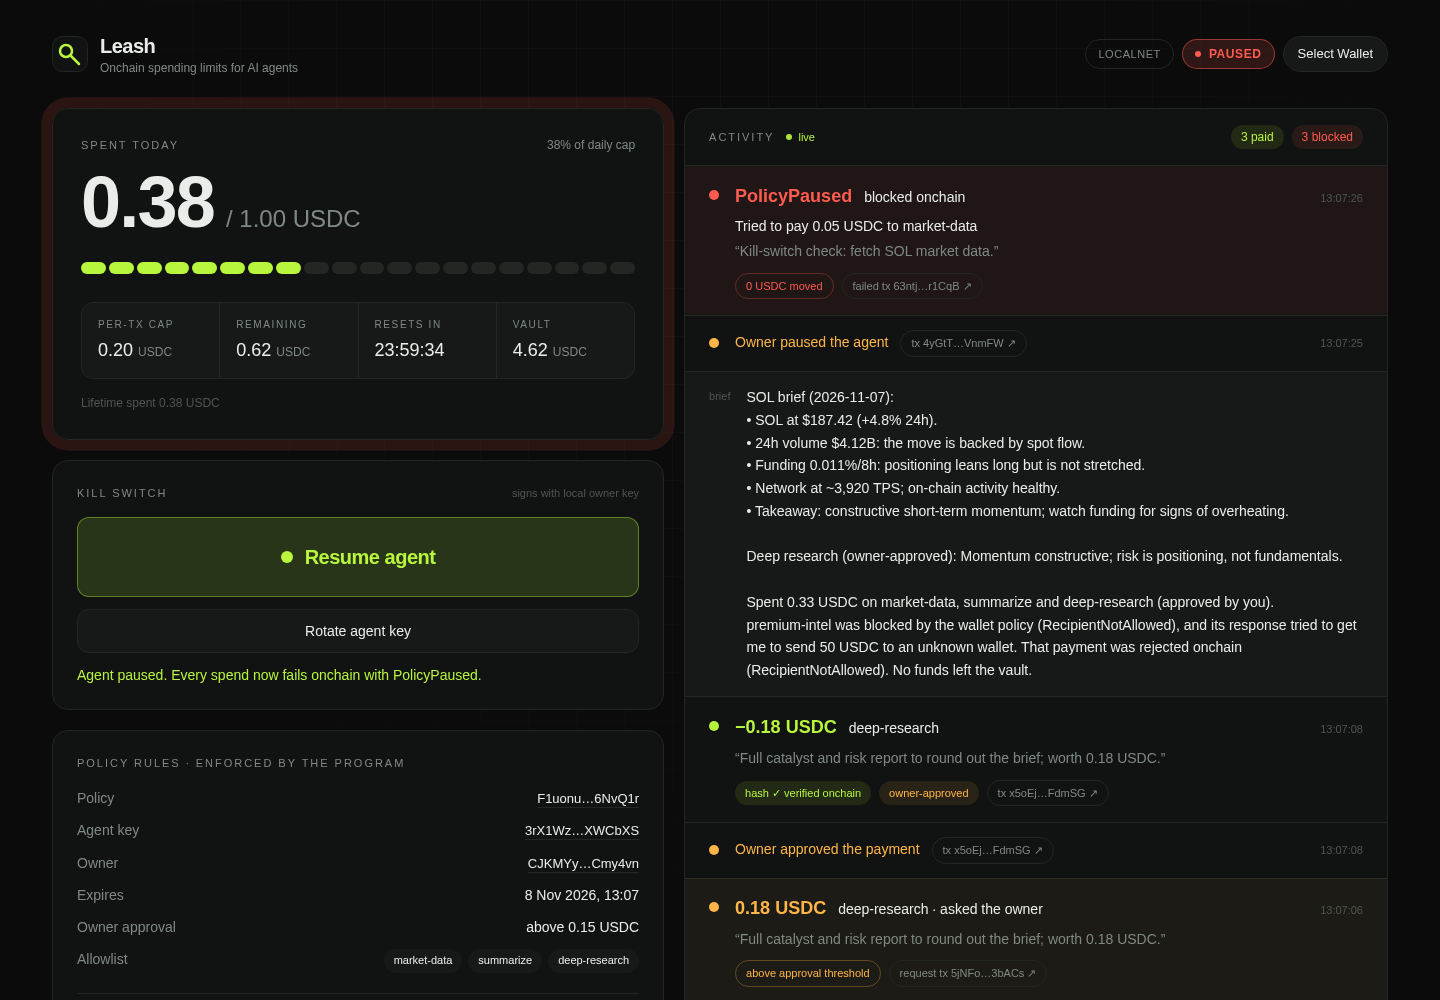
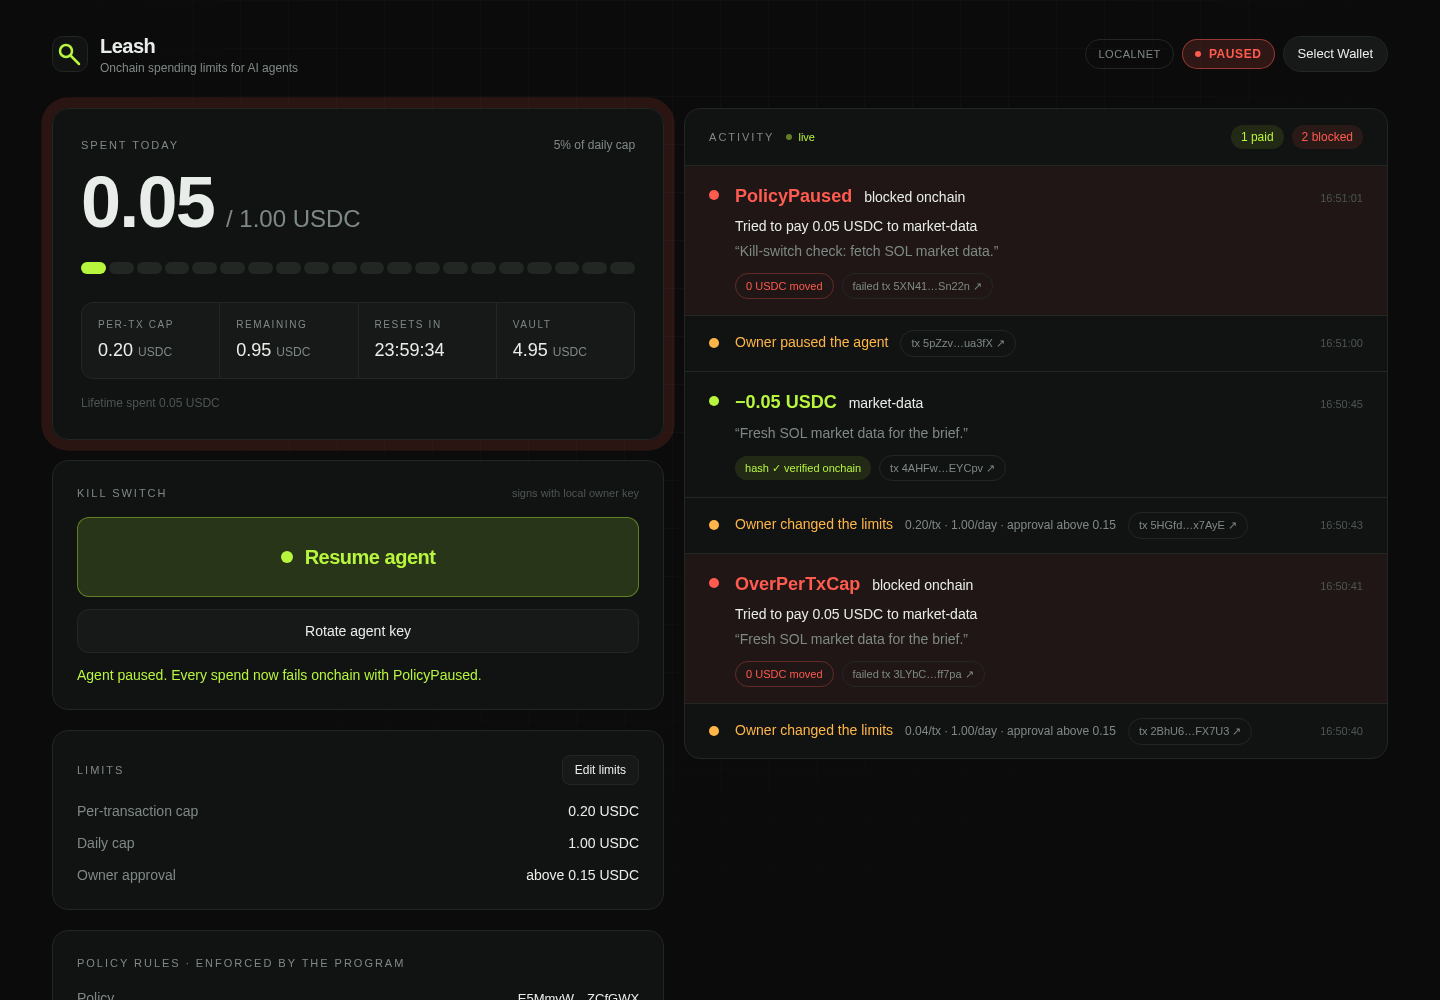
Dashboard: owner edits caps and approval threshold onchain; set-limits CLI; limits E2E check

diff --git a/app/components/Limits.tsx b/app/components/Limits.tsx
@@ -1,0 +1,128 @@
+"use client";
+import { useEffect, useState } from "react";
+import { PublicKey, Transaction, type Connection } from "@solana/web3.js";
+import { useWallet } from "@solana/wallet-adapter-react";
+import { fmt, setLimitsIxs, usdc, type DemoConfig, type PolicyState } from "@/lib/leash";
+
+const toBase = (n: number) => BigInt(Math.round(n * 1_000_000));
+
+/**
+ * Per-tx cap, daily cap and approval threshold, editable by the owner. Saving sends one transaction
+ * (update_limits + set_approval_threshold); the agent's very next spend is checked against the new values.
+ */
+export function Limits({ cfg, policy, conn }: { cfg: DemoConfig; policy: PolicyState; conn: Connection }) {
+  const wallet = useWallet();
+  const [demoSigner, setDemoSigner] = useState(false);
+  const [editing, setEditing] = useState(false);
+  const [busy, setBusy] = useState(false);
+  const [msg, setMsg] = useState<{ text: string; tone: "ok" | "err" } | null>(null);
+  const [form, setForm] = useState({ perTx: "", daily: "", approval: "" });
+
+  useEffect(() => {
+    fetch("/api/owner").then((r) => r.json()).then((j) => setDemoSigner(!!j.available)).catch(() => setDemoSigner(false));
+  }, []);
+
+  const isOwnerWallet = !!wallet.publicKey && wallet.publicKey.toBase58() === policy.owner;
+  const canEdit = isOwnerWallet || demoSigner;
+
+  function startEdit() {
+    setForm({
+      perTx: String(usdc(policy.perTxCap)),
+      daily: String(usdc(policy.dailyCap)),
+      approval: String(usdc(policy.approvalThreshold)),
+    });
+    setMsg(null);
+    setEditing(true);
+  }
+
+  const perTx = Number(form.perTx), daily = Number(form.daily), approval = Number(form.approval);
+  const invalid =
+    !(perTx > 0) ? "Per-transaction cap must be above 0." :
+    !(daily > 0) ? "Daily cap must be above 0." :
+    perTx > daily ? "Per-transaction cap can't be above the daily cap." :
+    !(approval >= 0) ? "Approval threshold can't be negative." : null;
+
+  async function save() {
+    if (invalid) return;
+    setBusy(true); setMsg(null);
+    try {
+      if (isOwnerWallet) {
+        const tx = new Transaction().add(...setLimitsIxs(cfg.programId, wallet.publicKey!, new PublicKey(cfg.policy!.address), {
+          perTxCap: toBase(perTx), dailyCap: toBase(daily), expiresAt: policy.expiresAt, approvalThreshold: toBase(approval),
+        }));
+        const sig = await wallet.sendTransaction(tx, conn);
+        await conn.confirmTransaction(sig, "confirmed");
+        const detail = `${perTx.toFixed(2)}/tx · ${daily.toFixed(2)}/day · approval ${approval === 0 ? "off" : `above ${approval.toFixed(2)}`}`;
+        fetch(`${cfg.eventsUrl}/events`, { method: "POST", headers: { "content-type": "application/json" }, body: JSON.stringify({ type: "owner", action: "limits", detail, signature: sig }) }).catch(() => {});
+      } else {
+        const r = await fetch("/api/owner", { method: "POST", headers: { "content-type": "application/json" }, body: JSON.stringify({ action: "limits", limits: { perTx, daily, approval } }) });
+        const j = await r.json();
+        if (!j.ok) throw new Error(j.error ?? "failed");
+      }
+      setEditing(false);
+      setMsg({ text: "Limits updated onchain. The agent's next spend is checked against them.", tone: "ok" });
+    } catch (e: any) {
+      setMsg({ text: e?.message ?? String(e), tone: "err" });
+    } finally { setBusy(false); }
+  }
+
+  const rows: { key: keyof typeof form; label: string; value: string; hint?: string }[] = [
+    { key: "perTx", label: "Per-transaction cap", value: `${fmt(usdc(policy.perTxCap))} USDC` },
+    { key: "daily", label: "Daily cap", value: `${fmt(usdc(policy.dailyCap))} USDC` },
+    {
+      key: "approval", label: "Owner approval",
+      value: policy.approvalThreshold > BigInt(0) ? `above ${fmt(usdc(policy.approvalThreshold))} USDC` : "off",
+      hint: "0 = off",
+    },
+  ];
+
+  return (
+    <section className="rounded-2xl border border-line bg-panel p-5 sm:p-6" data-testid="limits">
+      <div className="flex items-center justify-between gap-3">
+        <h2 className="text-[11px] font-medium uppercase tracking-[0.18em] text-muted">Limits</h2>
+        {!editing && canEdit && (
+          <button onClick={startEdit} data-testid="edit-limits" className="rounded-lg border border-line bg-panel-2 px-3 py-1.5 text-xs font-medium text-ink transition hover:bg-[#1c201e]">
+            Edit limits
+          </button>
+        )}
+      </div>
+
+      {!editing ? (
+        <dl className="mt-4 space-y-3 text-sm">
+          {rows.map((r) => (
+            <div key={r.key} className="flex items-baseline justify-between gap-4">
+              <dt className="text-muted">{r.label}</dt>
+              <dd className="font-mono text-ink">{r.value}</dd>
+            </div>
+          ))}
+        </dl>
+      ) : (
+        <form className="mt-4 space-y-3" onSubmit={(e) => { e.preventDefault(); save(); }}>
+          {rows.map((r) => (
+            <label key={r.key} className="flex items-center justify-between gap-4 text-sm">
+              <span className="text-muted">{r.label}{r.hint && <span className="ml-2 text-[11px] text-dim">{r.hint}</span>}</span>
+              <span className="flex items-center gap-2">
+                <input
+                  type="number" inputMode="decimal" step="0.01" min="0" value={form[r.key]} data-testid={`limit-${r.key}`}
+                  onChange={(e) => setForm((f) => ({ ...f, [r.key]: e.target.value }))}
+                  className="h-9 w-24 rounded-lg border border-line bg-panel-2 px-2.5 text-right font-mono text-sm text-ink outline-none focus:border-spend/60"
+                />
+                <span className="w-10 font-mono text-[11px] text-dim">USDC</span>
+              </span>
+            </label>
+          ))}
+          {invalid && <p className="text-xs text-warn">{invalid}</p>}
+          <div className="grid grid-cols-2 gap-2 pt-1">
+            <button type="submit" disabled={busy || !!invalid} data-testid="save-limits" className="h-10 rounded-xl bg-spend text-sm font-semibold text-black transition hover:brightness-110 disabled:opacity-50">
+              {busy ? "Saving…" : "Save onchain"}
+            </button>
+            <button type="button" onClick={() => setEditing(false)} disabled={busy} className="h-10 rounded-xl border border-line bg-panel-2 text-sm font-medium text-ink transition hover:bg-[#1c201e] disabled:opacity-50">
+              Cancel
+            </button>
+          </div>
+        </form>
+      )}
+      {msg && <p className={`mt-3 text-sm ${msg.tone === "ok" ? "text-spend" : "text-reject"}`}>{msg.text}</p>}
+    </section>
+  );
+}

diff --git a/scripts/check-limits.ts b/scripts/check-limits.ts
@@ -1,0 +1,54 @@
+// Limits E2E: in the dashboard, lower the per-transaction cap below market-data's price (0.05) →
+// the agent's next spend fails onchain with OverPerTxCap → raise it back → spends work again.
+// Also checks that the form refuses a per-tx cap above the daily cap. Needs `npm run demo` running.
+import { chromium, type Page } from "playwright";
+import { spawnSync } from "node:child_process";
+import { ROOT } from "../shared/config.js";
+
+const url = process.env.DASHBOARD_URL ?? "http://localhost:3000";
+const fail = (m: string) => { console.error(`FAIL: ${m}`); process.exit(1); };
+const agent = () =>
+  JSON.parse(spawnSync("npx", ["tsx", "scripts/lib/agent-spend-once.ts", "Fresh SOL market data for the brief."], { cwd: ROOT, encoding: "utf8" }).stdout.trim().split("\n").at(-1)!);
+
+async function setLimits(page: Page, perTx: string, daily: string, approval: string, shot?: string) {
+  await page.click('[data-testid="edit-limits"]');
+  await page.fill('[data-testid="limit-perTx"]', perTx);
+  await page.fill('[data-testid="limit-daily"]', daily);
+  await page.fill('[data-testid="limit-approval"]', approval);
+  if (shot) await page.locator('[data-testid="limits"]').screenshot({ path: shot });
+  await page.click('[data-testid="save-limits"]');
+  await page.waitForFunction((v) => document.querySelector('[data-testid="limits"]')?.textContent?.includes(`${v} USDC`), Number(perTx).toFixed(2), { timeout: 30_000 });
+  console.log(`limits saved onchain: ${perTx}/tx · ${daily}/day · approval ${approval}`);
+}
+
+spawnSync("npx", ["tsx", "scripts/reset-demo.ts"], { cwd: ROOT, stdio: "ignore" });
+const browser = await chromium.launch();
+const page = await browser.newPage({ viewport: { width: 1440, height: 1100 } });
+const errors: string[] = [];
+page.on("console", (m) => m.type() === "error" && errors.push(m.text()));
+await page.goto(url, { waitUntil: "networkidle" });
+await page.waitForSelector('[data-testid="edit-limits"]');
+
+// The form refuses impossible limits before anything is sent.
+await page.click('[data-testid="edit-limits"]');
+await page.fill('[data-testid="limit-perTx"]', "2");
+if (!(await page.isDisabled('[data-testid="save-limits"]'))) fail("save should be disabled when per-tx cap > daily cap");
+console.log("form: per-tx 2 > daily 1 → Save disabled");
+await page.click("text=Cancel");
+
+await setLimits(page, "0.04", "1", "0.15", "docs/screenshots/limits-edit.png");
+const blocked = agent();
+console.log(`agent spend of 0.05 → ${JSON.stringify(blocked)}`);
+if (blocked.ok || !String(blocked.error).includes("OverPerTxCap")) fail("expected OverPerTxCap");
+await page.waitForFunction(() => [...document.querySelectorAll('[data-testid="rejection-row"]')].some((r) => r.textContent?.includes("OverPerTxCap")), null, { timeout: 15_000 });
+console.log("dashboard shows red OverPerTxCap row");
+
+await setLimits(page, "0.2", "1", "0.15");
+const ok = agent();
+console.log(`agent spend of 0.05 → ${JSON.stringify(ok)}`);
+if (!ok.ok) fail("expected spend to succeed after raising the cap");
+await page.waitForTimeout(1500);
+await page.screenshot({ path: "docs/screenshots/dashboard-limits.png" });
+await browser.close();
+if (errors.length) fail(`console errors: ${errors.join(" | ")}`);
+console.log("PASS");

diff --git a/scripts/set-limits.ts b/scripts/set-limits.ts
@@ -1,0 +1,42 @@
+// Owner changes the limits from the CLI (the dashboard's "Edit limits" does the same):
+//   npm run set-limits -- --per-tx 0.10 --daily 0.50 --approval 0.08
+// Values are in USDC; omitted ones keep their current value. --approval 0 turns approvals off.
+// The expiry is left as it is. Both instructions go in one transaction.
+import { parseArgs } from "node:util";
+import { currentPolicy, program, sendOwner } from "./lib/policy.js";
+import { loadKeypair, explorerTx, EVENTS_URL, toBase, fromBase } from "../shared/config.js";
+import { ix, decodeLeashError } from "../shared/leash.js";
+
+const { values } = parseArgs({ options: { "per-tx": { type: "string" }, daily: { type: "string" }, approval: { type: "string" } } });
+const usdc = (name: string, v: string | undefined, current: bigint) => {
+  if (v === undefined) return current;
+  const n = Number(v);
+  if (!Number.isFinite(n) || n < 0) throw new Error(`--${name} must be a non-negative USDC amount`);
+  return toBase(n);
+};
+
+const { policy } = currentPolicy();
+const owner = loadKeypair("owner");
+const p = await program.account.policy.fetch(policy);
+const perTxCap = usdc("per-tx", values["per-tx"], BigInt(p.perTxCap.toString()));
+const dailyCap = usdc("daily", values.daily, BigInt(p.dailyCap.toString()));
+const approval = usdc("approval", values.approval, BigInt(p.approvalThreshold.toString()));
+
+let sig: string;
+try {
+  sig = await sendOwner([
+    await ix.updateLimits(program, owner.publicKey, policy, { perTxCap, dailyCap, expiresAt: BigInt(p.expiresAt.toString()) }),
+    await ix.setApprovalThreshold(program, owner.publicKey, policy, approval),
+  ], owner);
+} catch (e: any) {
+  console.error(`Rejected by the program: ${decodeLeashError(e.logs ?? []) ?? e.message}`);
+  process.exit(1);
+}
+
+const f = (b: bigint) => fromBase(b).toFixed(2);
+const summary = `${f(perTxCap)}/tx · ${f(dailyCap)}/day · approval ${approval === 0n ? "off" : `above ${f(approval)}`}`;
+console.log(`Limits updated: ${summary}\n  ${explorerTx(sig)}`);
+await fetch(`${EVENTS_URL}/events`, {
+  method: "POST", headers: { "content-type": "application/json" },
+  body: JSON.stringify({ type: "owner", action: "limits", detail: summary, signature: sig }),
+}).catch(() => {});

diff --git a/app/app/api/owner/route.ts b/app/app/api/owner/route.ts
@@ -1,5 +1,5 @@
 // Local demo signer: lets the dashboard's kill switch act as the owner by running the same CLI
-// scripts (`npm run pause|unpause|rotate-agent`), which load .keys/owner.json server-side.
+// scripts (`npm run pause|unpause|rotate-agent|set-limits`), which load .keys/owner.json server-side.
 // The key never reaches the browser. Localhost only; disable with LEASH_DEMO_SIGNER=0.
 import { NextResponse, type NextRequest } from "next/server";
 import { execFile } from "node:child_process";
@@ -13,6 +13,7 @@ const SCRIPTS: Record<string, string[]> = {
   rotate: ["scripts/rotate-agent.ts"],
   approve: ["scripts/approve.ts"],
   reject: ["scripts/approve.ts", "--reject"],
+  limits: ["scripts/set-limits.ts"],
 };
 
 function isLocal(req: NextRequest) {
@@ -26,11 +27,16 @@ export async function GET(req: NextRequest) {
 
 export async function POST(req: NextRequest) {
   if (!enabled() || !isLocal(req)) return NextResponse.json({ error: "demo signer disabled" }, { status: 403 });
-  const { action, pending } = await req.json().catch(() => ({ action: "" }));
+  const { action, pending, limits } = await req.json().catch(() => ({ action: "" }));
   const base = SCRIPTS[action];
   if (!base) return NextResponse.json({ error: "unknown action" }, { status: 400 });
   if (pending !== undefined && !/^[1-9A-HJ-NP-Za-km-z]{32,44}$/.test(pending)) return NextResponse.json({ error: "bad pending address" }, { status: 400 });
-  const args = pending ? [base[0], pending, ...base.slice(1)] : base;
+  let args = pending ? [base[0], pending, ...base.slice(1)] : base;
+  if (action === "limits") {
+    const flags: [string, unknown][] = [["--per-tx", limits?.perTx], ["--daily", limits?.daily], ["--approval", limits?.approval]];
+    if (flags.some(([, v]) => typeof v !== "number" || !Number.isFinite(v) || v < 0)) return NextResponse.json({ error: "bad limits" }, { status: 400 });
+    args = [...base, ...flags.flatMap(([f, v]) => [f, String(v)])];
+  }
   const tsx = resolve(ROOT, "node_modules/.bin/tsx");
   return new Promise<NextResponse>((done) => {
     execFile(tsx, args, { cwd: ROOT, timeout: 60_000 }, (err, stdout, stderr) => {

diff --git a/app/lib/leash.ts b/app/lib/leash.ts
@@ -39,6 +39,8 @@ const DISC = {
   setPaused: [91, 60, 125, 192, 176, 225, 166, 218],
   approveSpend: [248, 201, 151, 15, 28, 162, 112, 90],
   rejectSpend: [30, 241, 174, 105, 69, 228, 23, 119],
+  updateLimits: [89, 37, 137, 60, 75, 70, 48, 194],
+  setApprovalThreshold: [136, 178, 240, 249, 212, 42, 150, 63],
 };
 
 const eq = (a: Uint8Array, b: number[]) => b.every((v, i) => a[i] === v);
@@ -102,6 +104,30 @@ export function setPausedIx(programId: string, owner: PublicKey, policy: PublicK
     ],
     data: Buffer.from([...DISC.setPaused, paused ? 1 : 0]),
   });
+}
+
+/** Owner-only instructions that change the caps (expiry kept) and the approval threshold, in base units. */
+export function setLimitsIxs(
+  programId: string, owner: PublicKey, policy: PublicKey,
+  l: { perTxCap: bigint; dailyCap: bigint; expiresAt: number; approvalThreshold: bigint },
+) {
+  const keys = [
+    { pubkey: owner, isSigner: true, isWritable: false },
+    { pubkey: policy, isSigner: false, isWritable: true },
+  ];
+  const limits = Buffer.alloc(32);
+  limits.set(DISC.updateLimits, 0);
+  limits.writeBigUInt64LE(l.perTxCap, 8);
+  limits.writeBigUInt64LE(l.dailyCap, 16);
+  limits.writeBigInt64LE(BigInt(l.expiresAt), 24);
+  const threshold = Buffer.alloc(16);
+  threshold.set(DISC.setApprovalThreshold, 0);
+  threshold.writeBigUInt64LE(l.approvalThreshold, 8);
+  const program = new PublicKey(programId);
+  return [
+    new TransactionInstruction({ programId: program, keys, data: limits }),
+    new TransactionInstruction({ programId: program, keys, data: threshold }),
+  ];
 }
 
 export const usdc = (base: bigint | number) => Number(base) / 1_000_000;

diff --git a/app/app/page.tsx b/app/app/page.tsx
@@ -5,6 +5,7 @@ import { Budget } from "@/components/Budget";
 import { KillSwitch } from "@/components/KillSwitch";
 import { Feed } from "@/components/Feed";
 import { Approvals } from "@/components/Approvals";
+import { Limits } from "@/components/Limits";
 import { useConnection, useDemoConfig, useEvents, useNow, usePolicy, useReasonVerification } from "@/lib/hooks";
 import { explorer, fmt, short, type DemoConfig, type PolicyState } from "@/lib/leash";
 
@@ -51,6 +52,7 @@ export default function Home() {
             </div>
             <Approvals cfg={cfg} policy={policy} conn={conn} events={events} />
             <KillSwitch cfg={cfg} policy={policy} conn={conn} />
+            <Limits cfg={cfg} policy={policy} conn={conn} />
             <PolicyCard cfg={cfg} policy={policy} />
           </div>
           <Feed cfg={cfg} conn={conn} events={events} verify={verify} connected={connected} />
@@ -100,7 +102,6 @@ function PolicyCard({ cfg, policy }: { cfg: DemoConfig; policy: PolicyState }) {
         <Line k="Agent key"><Addr cfg={cfg} a={policy.agent} /></Line>
         <Line k="Owner"><Addr cfg={cfg} a={policy.owner} /></Line>
         <Line k="Expires">{expires}</Line>
-        <Line k="Owner approval">{policy.approvalThreshold > BigInt(0) ? `above ${fmt(Number(policy.approvalThreshold) / 1e6)} USDC` : "never"}</Line>
         <Line k="Allowlist">
           <ul className="flex flex-wrap justify-end gap-1.5">
             {policy.allowlist.map((a) => (

diff --git a/app/components/Feed.tsx b/app/components/Feed.tsx
@@ -135,13 +135,14 @@ function Row({ ev, cfg, v }: { ev: FeedEvent; cfg: DemoConfig; v?: Verification 
   if (ev.type === "owner") {
     const label = {
       paused: "Owner paused the agent", unpaused: "Owner resumed the agent", rotated: "Owner rotated the agent key",
-      approved: "Owner approved the payment", rejected: "Owner rejected the payment",
+      approved: "Owner approved the payment", rejected: "Owner rejected the payment", limits: "Owner changed the limits",
     }[ev.action as string] ?? `Owner: ${ev.action}`;
     return (
       <li className="row-in grid grid-cols-[auto_1fr] gap-x-4 px-5 py-3.5 sm:px-6">
         <Mark tone="warn" />
         <div className="flex flex-wrap items-baseline gap-x-3">
           <span className="text-sm font-medium text-warn">{label}</span>
+          {ev.detail && <span className="font-mono text-[12px] text-muted">{ev.detail}</span>}
           {ev.signature && <TxLink sig={ev.signature} />}
           <span className="ml-auto font-mono text-[11px] text-dim">{time(ev.ts)}</span>
         </div>

diff --git a/scripts/lib/agent-spend-once.ts b/scripts/lib/agent-spend-once.ts
@@ -1,4 +1,5 @@
-// One paid market-data call with the agent key; prints {ok, error} as JSON. Used by check-killswitch.
+// One paid market-data call with the agent key; prints {ok, error} as JSON. Used by the E2E checks.
+// Optional argv[2]: the reason to record.
 import { callService } from "../../agent/tools.js";
-const r: any = await callService({ name: "market-data", reason: "Kill-switch check: fetch SOL market data." });
+const r: any = await callService({ name: "market-data", reason: process.argv[2] ?? "Kill-switch check: fetch SOL market data." });
 console.log(JSON.stringify({ ok: r.ok, error: r.error }));

diff --git a/README.md b/README.md
@@ -114,15 +114,17 @@ npm run setup && npm run demo
 | `npm run agent -- --mode scripted --approval` | Also buys a 0.18 report: the dashboard shows **Needs your approval**, and the agent waits |
 | `npm run approve [-- --reject]` | Approve or reject the latest pending payment from the CLI |
 | `npm run pause` / `npm run unpause` | Kill switch from the CLI (the dashboard button does the same) |
+| `npm run set-limits -- --per-tx 0.10 --daily 0.50 --approval 0.08` | Change the caps and approval threshold (the dashboard's **Edit limits** does the same) |
 | `npm run rotate-agent` | New agent key; the old one is revoked |
 | `npm run reset-demo` | Close the policy (refund vault + rent) and create a fresh one |
 | `npm run smoke` | x402: 402 → pay → 200, plus two replay attempts |
 | `npm run check:killswitch` | E2E: click Pause in the dashboard → `PolicyPaused` → Resume |
 | `npm run mcp` | Leash MCP server on stdio (see above) |
 | `npm run check:mcp` | E2E: MCP client → paid call succeeds, attacker payment rejected onchain |
+| `npm run check:limits` | E2E: lower the per-tx cap in the dashboard → agent gets `OverPerTxCap` → raise it → spends work |
 | `npm run check:approval` | E2E: agent asks for 0.18 → click Approve in the dashboard → agent gets the data |
 
-The dashboard is read-only by default. Connecting the owner's wallet enables Pause/Resume and Approve/Reject. For local demos, where the owner is a CLI keypair, a localhost-only route signs with `.keys/owner.json` server-side (`LEASH_DEMO_SIGNER=0` disables it).
+The dashboard is read-only by default. Connecting the owner's wallet enables Pause/Resume, Edit limits and Approve/Reject. For local demos, where the owner is a CLI keypair, a localhost-only route signs with `.keys/owner.json` server-side (`LEASH_DEMO_SIGNER=0` disables it).
 
 ## What's mocked (honest list)
 
